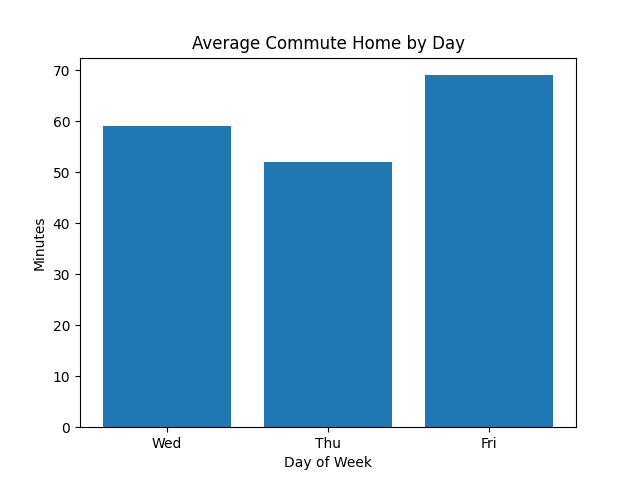
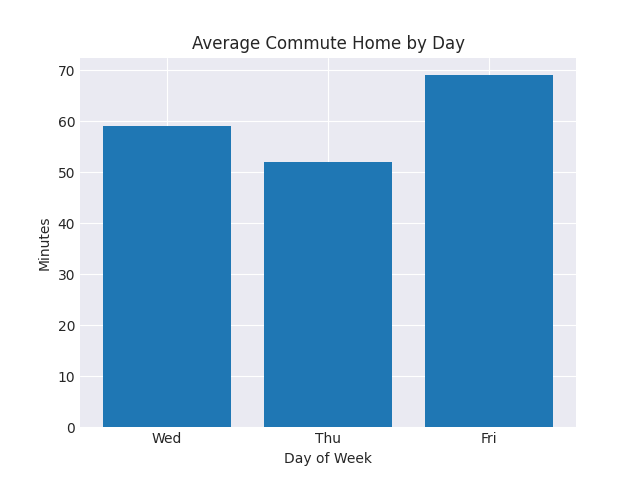
new graphs

diff --git a/processResults.py b/processResults.py
@@ -4,6 +4,8 @@ import pandas as pd
 # Read CSV
 df = pd.read_csv('/opt/jericho-flask/traveltime/traveltime.csv')
 
+plt.style.use('seaborn-v0_8-darkgrid')
+
 # Make leave time and arrive time and direction columns all lower case
 df['LEAVE_TIME'] = df['LEAVE_TIME'].str.lower()
 df['ARRIVE_TIME'] = df['ARRIVE_TIME'].str.lower()
